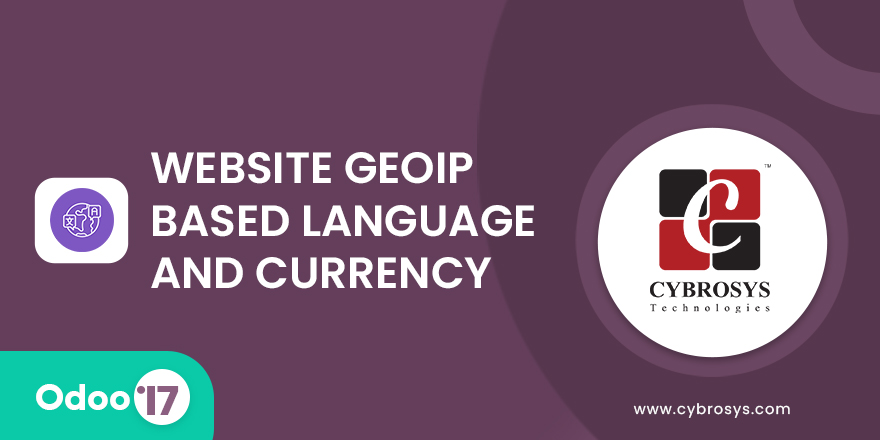
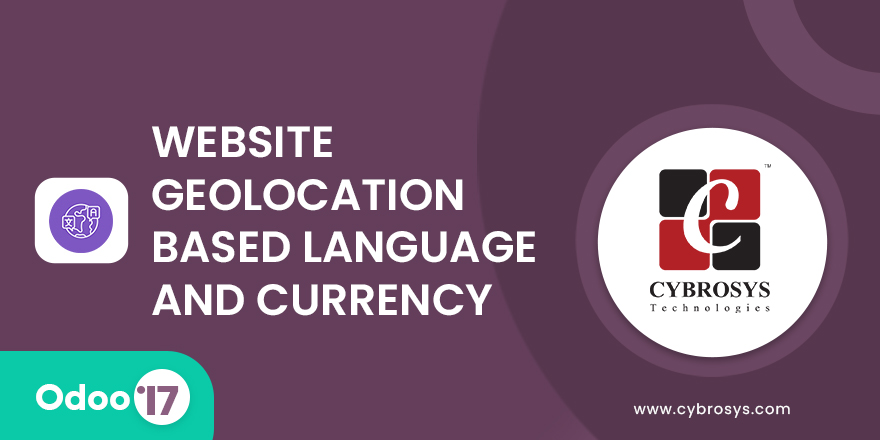
Aug 29: [UPDT] Index and  Key Word Updated 'geoip_website_redirect'

Changed region(s): [[0.1534, 0.2659, 0.6136, 0.7386], [0.0614, 0.4136, 0.1227, 0.5614]]

diff --git a/geoip_website_redirect/static/description/index.html b/geoip_website_redirect/static/description/index.html
@@ -69,7 +69,7 @@
             <div class="col-lg-12 d-flex flex-column align-items-center">
                 <h1 class="text-center text-uppercase"
                     style="font-family: Montserrat, 'sans-serif' !important; font-size: 67px !important; color: #5154a5; font-weight: 900 !important;">
-                    <span style="color:#5154a5;">Website GeoIP Based </span><span style="color: #791d97;">Language and Currency</span>
+                    <span style="color:#5154a5;">Website Geolocation Based </span><span style="color: #791d97;">Language and Currency</span>
                 </h1>
                 <p class="my-1 text-center text-uppercase"
                     style="letter-spacing: 4px !important; color: #74788D !important;font-size: 21px;font-weight: bold;">
@@ -78,7 +78,7 @@
             <div class="col-lg-12 d-flex flex-column justify-content-center">
                 <p class="my-1 text-center"
                     style="font-family: Montserrat, 'sans-serif' !important; color: #212121 !important;font-size: 16px;font-weight: bolder;">
-                    Website GeoIP Based Language and Currency is an application
+                    Website Geolocation Based Language and Currency is an application
                     which is fetch the IP address of customer's device and allow
                     them to see website in their native language and see the
                     currency as per the geolocation.
@@ -231,12 +231,12 @@
                     </h1>
                     <p class="my-1 text-center text-uppercase"
                         style="letter-spacing:4px !important; color:#74788D !important">
-                        Website GeoIP Based Language and Currency.</p>
+                        Website Geolocation Based Language and Currency.</p>
                 </div>
 
                 <div class="col-sm-12 py-4">
                     <h5 style="text-indent: 2em; text-align: justify;">
-                        The Website GeoIP Based Language and Currency application
+                        The Website Geolocation Based Language and Currency application
                         detects the IP address of a customer's device to display
                         the website in their native language and show prices in the
                         appropriate currency based on their geolocation.
@@ -323,7 +323,7 @@
                             </h1>
                             <p class="my-1 text-center text-uppercase"
                                 style="letter-spacing:4px !important; color:#74788D !important">
-                                Website GeoIP Based Language and Currency
+                                Website Geolocation Based Language and Currency
                             </p>
                         </div>
 
@@ -387,7 +387,7 @@
                                 </h1>
                                 <p class="my-1 text-center text-uppercase"
                                     style="letter-spacing:4px !important; color:#74788D !important">
-                                    Comprehensive Features of Website GeoIP Based Language and Currency</p>
+                                    Comprehensive Features of Website Geolocation Based Language and Currency</p>
                             </div>
                             <div class="row">
                                 <div class="col-md-4 col-sm-6 mt48" style="padding-bottom: 10px">

diff --git a/geoip_website_redirect/controllers/geoip_website_redirect.py b/geoip_website_redirect/controllers/geoip_website_redirect.py
@@ -26,11 +26,13 @@ from odoo.http import request
 from odoo.addons.web.controllers.home import Home
 
 
-class GeoIP(Home):
+class Geolocation(Home):
     """ controller for selecting login user's datas """
+
     def get_location(self, ip_address):
         """ Get location details of user using ip address"""
-        response = requests.get(f'http://ip-api.com/json/{ip_address}', timeout=20).json()
+        response = requests.get(f'http://ip-api.com/json/{ip_address}',
+                                timeout=20).json()
         return {"country": response.get("country")}
 
     @http.route()

diff --git a/geoip_website_redirect/__manifest__.py b/geoip_website_redirect/__manifest__.py
@@ -20,10 +20,10 @@
 #
 #############################################################################
 {
-    'name': 'Website GeoIP Based Language and Currency',
+    'name': 'Website Geolocation Based Language and Currency',
     'version': '17.0.1.0.0',
     'category': 'eCommerce, Productivity',
-    'summary': """Website GeoIP Based Language and Currency Application
+    'summary': """Website Geolocation Based Language and Currency Application
      for Odoo 17""",
     'description': """The module helps you to map currency and language
     based on User's IP address""",

diff --git a/geoip_website_redirect/README.rst b/geoip_website_redirect/README.rst
@@ -2,8 +2,8 @@
     :target: https://www.gnu.org/licenses/lgpl-3.0-standalone.html
     :alt: License: LGPL-3
 
-Website GeoIP Based Language and Currency
-=========================================
+Website Geolocation Based Language and Currency
+===============================================
 * This module allow to view the website content according to login user's country details.
 
 Installation

diff --git a/geoip_website_redirect/doc/RELEASE_NOTES.md b/geoip_website_redirect/doc/RELEASE_NOTES.md
@@ -4,4 +4,11 @@
 #### Version 17.0.1.0.0
 ##### ADD
 
-- Initial Commit for Website GeoIP Based Language and Currency
+- Initial Commit for Website Geolocation Based Language and Currency
+
+#### 29.10.2024
+#### Version 17.0.1.1.0
+#### BUG FIX
+
+- The Key word is replaced from the index , manifest and controllers.
+
